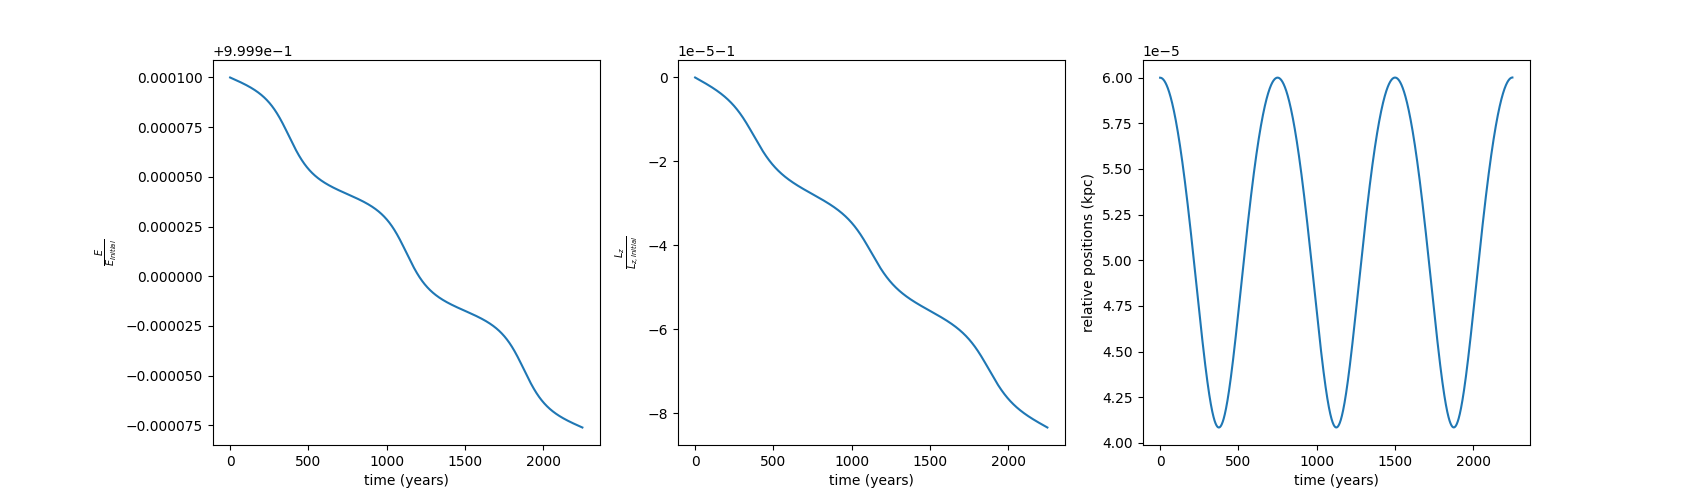
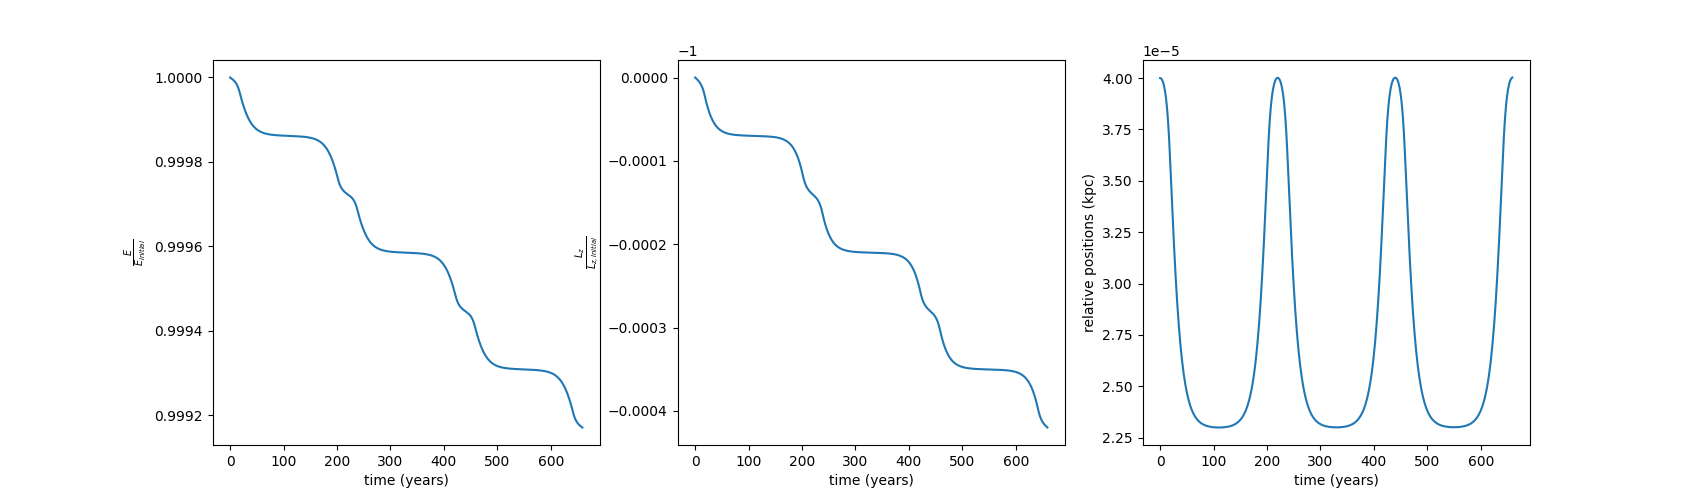
COM correction to be perfectly constant

diff --git a/bound_binary.py b/bound_binary.py
@@ -1,181 +1,184 @@
 # Description: This script calculates the total energy, angular momentum, and period of a binary star system.
 # It is used to verify that the total energy and angular momentum are conserved over time.
 # The script also calculates the period of the binary star system.
-#Writers: Lauren, Hui, Aryana, Negin
+# Writers: Lauren, Hui, Aryana, Negin
+
 import numpy as np
 import matplotlib.pyplot as plt
-from constants import G as const_G
-# from constants import c as const_c
-from plot_3D import visualization
+from constants import G as const_G  # Gravitational constant
+from plot_3D import visualization   # Importing 3D plotting function for visualization
 
-# m = np.array([1e6,1e6])
-# r = np.array([[0,0,0],[1e-5,0,0]])
-# v = np.array([[0,0,0],[0,1e-6,0]])
-
-def choose_initial_condition(number_perticles=2):
+# Function to choose initial conditions for the binary system
+def choose_initial_condition(number_particles=2):
     masses = []
-    for i in range(number_perticles): masses.append(np.random.randint(1,9) * 1e6)
-    masses       = np.sort(np.array(masses))[::-1]
+    # Assign random masses to particles
+    for i in range(number_particles): 
+        masses.append(np.random.randint(1, 9) * 1e6)
+    masses = np.sort(np.array(masses))[::-1]  # Sort masses in descending order
     print('Masses = ', masses)
-    distance     = np.random.randint(1,9)   * 1e-5
-    e            = np.random.randint(10,40) * 0.01
+
+    # Set initial separation and eccentricity
+    distance = np.random.randint(1, 9) * 1e-5
+    e = np.random.randint(10, 40) * 0.01
     print('e = ', e)
-    v_rel        = np.sqrt(const_G*np.sum(masses)*(1-e)/distance)
-    print('v/m_tot = ', v_rel/np.sum(masses))
-    mu           = np.prod(masses) / np.sum(masses)
-    total_energy = 0.5*mu*v_rel**2 - const_G*np.prod(masses)/distance
+
+    # Calculate relative velocity based on masses and distance
+    v_rel = np.sqrt(const_G * np.sum(masses) * (1 - e) / distance)
+    print('v/m_tot = ', v_rel / np.sum(masses))
+
+    # Calculate reduced mass and total energy
+    mu = np.prod(masses) / np.sum(masses)
+    total_energy = 0.5 * mu * v_rel ** 2 - const_G * np.prod(masses) / distance
     print('E = ', total_energy)
-    a            = -0.5 * const_G * np.prod(masses) / total_energy
+
+    # Semi-major axis and orbital period calculation
+    a = -0.5 * const_G * np.prod(masses) / total_energy
     print('a = ', a)
-    period       = np.sqrt((4*np.pi**2*a**3)/(const_G*np.sum(masses)))
+    period = np.sqrt((4 * np.pi ** 2 * a ** 3) / (const_G * np.sum(masses)))
     print('T = ', period)
-    velocities   = np.array([[0,-masses[0]/np.sum(masses)*v_rel,0],[0,masses[1]/np.sum(masses)*v_rel,0]])
-    positions    = np.array([[masses[0]/np.sum(masses)*distance,0,0],[-masses[1]/np.sum(masses)*distance,0,0]])
-    angular_mom  = mu * distance * v_rel
-    # print('eccentricity: ', np.sqrt(1 + 2*total_energy*angular_mom**2 / const_G**2*mu**2))
+
+    # Set initial positions and velocities
+    velocities = np.array([[0, -masses[0] / np.sum(masses) * v_rel, 0],
+                           [0, masses[1] / np.sum(masses) * v_rel, 0]])
+    positions = np.array([[masses[0] / np.sum(masses) * distance, 0, 0],
+                          [-masses[1] / np.sum(masses) * distance, 0, 0]])
+
+    angular_mom = mu * distance * v_rel  # Calculate angular momentum
     return masses, positions, velocities, total_energy, angular_mom
-    
 
-
+# Initialize system parameters
 m, r, v, E0, L0 = choose_initial_condition()
 
-def center_of_mass(masses, positions,velocities):
-    """
-        masses is a Nx1 array storing the masses of N particles
-        positions is a Nx3 array storing the positions of N particles
-        velocities is a Nx3 array storing the velocities of N particles
-        returns the 3D coordination of center of mass and the velocity of the center of mass
-
-     """
-    cm = np.dot(masses,positions)/np.sum(masses) #calculating the center of mass
-    v_cm = np.dot(masses,velocities)/np.sum(masses) #calculating the velocity of the center of mass
+# Function to calculate center of mass (position and velocity)
+def center_of_mass(masses, positions, velocities):
+    cm = np.dot(masses, positions) / np.sum(masses)      # Calculate COM position
+    v_cm = np.dot(masses, velocities) / np.sum(masses)   # Calculate COM velocity
     return cm, v_cm
 
+# Function to calculate reduced mass of the system
 def reduced_mass(masses): 
-    """
-        masses is a Nx1 array storing the masses of N particles
-        returns the reduced mass of the system
-        This will be used to calculate the total energy in the coordinates of the center of mass coordinates
-    """
-    mu = np.prod(masses)/np.sum(masses)
+    mu = np.prod(masses) / np.sum(masses)  # Reduced mass formula
     return mu
 
-
+# Function to calculate total energy of the system
 def total_energy(masses, positions, velocities):
-    """
-        masses is a Nx1 array storing the masses of N particles
-        positions is a Nx3 array storing the positions of N particles
-        velocities is a Nx3 array storing the velocities of N particles
-        returns the total energy of the system, and the relative distance between the two particles
-    """
-    del_pos = np.array(positions[0]-positions[1])          # Calculate relative position
-    rr = np.linalg.norm(del_pos)                           # Calculate the distance from the particle
-    del_vel = np.array(velocities[0]-velocities[1])        # Calculate the magnitude of velocity for each particle
-    vv = np.linalg.norm(del_vel)**2
+    del_pos = np.array(positions[0] - positions[1])     # Relative position vector
+    rr = np.linalg.norm(del_pos)                        # Distance between particles
+    del_vel = np.array(velocities[0] - velocities[1])   # Relative velocity vector
+    vv = np.linalg.norm(del_vel) ** 2
 
+    U = -const_G * masses[0] * masses[1] / rr           # Potential energy
+    K = 0.5 * reduced_mass(masses) * vv                 # Kinetic energy
+    E = K + U                                           # Total energy
+    return E, rr
 
-    U = -const_G*masses[0]*masses[1]/rr      # Calculate potential energy
-    K = 0.5*reduced_mass(masses)*vv          # Calculate kinetic energy
-    E = K + U                                # Sum total energy
-    return E,rr
+print("The total Energy of the system is:", total_energy(m, r, v)[0], "M_sun*kpc^2/year^2")
 
-print("The total Energy of the system is:", total_energy(m,r,v)[0], "M_sun*kpc^2/year^2")
-
-
-def angular_momentum(masses,positions,velocities):
-    """
-        masses is a Nx1 array storing the masses of N particles
-        positions is a Nx3 array storing the positions of N particles
-        velocities is a Nx3 array storing the velocities of N particles
-        returns the angular momentum of the system with respect to the center of mass
-    """
-    r_cross_v = np.cross(positions[0]-positions[1], velocities[0]-velocities[1])  
-    L_arr = reduced_mass(masses)*r_cross_v
-    # L = np.sqrt(np.sum(L_arr**2))
+# Function to calculate angular momentum of the system
+def angular_momentum(masses, positions, velocities):
+    r_cross_v = np.cross(positions[0] - positions[1], velocities[0] - velocities[1])
+    L_arr = reduced_mass(masses) * r_cross_v  # Calculate angular momentum vector
     return L_arr
 
-def calculate_period(masses,positions,velocities):
-     """
-        masses is a Nx1 array storing the masses of N particles
-        positions is a Nx3 array storing the positions of N particles
-        velocities is a Nx3 array storing the velocities of N particles
-        returns the period of the binary star system, and the semi-major and semi-minor axis of the binary star system
-     """
-     tot_E,rr=total_energy(masses,positions,velocities)      # calculate the total energy of the system
-     a = -1/2 * const_G * masses[0] * masses[1] / tot_E      # define a semi-major axis
-     T = np.sqrt(4*np.pi**2 * a**3 / (const_G * np.sum(masses))) #calculate the period
-     tot_L=np.linalg.norm(angular_momentum(m,r,v))           # calculate the angular momentum
-     elli=np.sqrt(1+2*tot_E*tot_L**2/(reduced_mass(m)*(const_G*m[0]*m[1])**2))
+# Function to calculate the period, semi-major axis, and semi-minor axis
+def calculate_period(masses, positions, velocities):
+     tot_E, rr = total_energy(masses, positions, velocities)       # Calculate total energy
+     a = -0.5 * const_G * masses[0] * masses[1] / tot_E            # Semi-major axis
+     T = np.sqrt(4 * np.pi ** 2 * a ** 3 / (const_G * np.sum(masses)))  # Orbital period
+     tot_L = np.linalg.norm(angular_momentum(m, r, v))             # Angular momentum magnitude
+     elli = np.sqrt(1 + 2 * tot_E * tot_L ** 2 / (reduced_mass(m) * (const_G * m[0] * m[1]) ** 2))
 
-     return T, a*(1+elli), a*(1-elli)                             # return the period, semi-major and semi-minor axis
+     return T, a * (1 + elli), a * (1 - elli)                      # Return period and axes
 
-T = calculate_period(m,r,v)
-print("The priode of the system is period:",T[0], "years")
-print("The maximum distance is:",T[1], "kpc")
-print("The minimum distance is:",T[2], "kpc")
+# Calculate and print system period and distances
+T = calculate_period(m, r, v)
+print("The period of the system is:", T[0], "years")
+print("The maximum distance is:", T[1], "kpc")
+print("The minimum distance is:", T[2], "kpc")
 
-
+# Import necessary functions for time evolution and force calculation
 from sc_time_evolution import evolve_position, evolve_velocity, set_t
 from Force_Nbody import cal_gforce
-# from sc_time_evolution import dt, T, step
 
+# Initialize lists for energy, angular momentum, and position tracking
 energy_list = []
 angular_momentum_list = []
 relative_positions = []
 
+# Set initial values for mass, position, and velocity
 mass = m
 position = r
 velocity = v
+position_matrix_binary = np.empty((2, 1, 3))  # Matrix to store position data for visualization
 
-position_matrix_binary = np.empty((2, 1, 3))
-
-#Evolution of binary system
+# Simulation parameters
 total_time = 0
-period_num = 3
-s = 0
-# dt = 1e-3
-while(1):
-    if s%1000==0:
-        energy, distance = total_energy(mass,position,velocity)
-        energy_list += [energy]
-        relative_positions += [distance]
-        ang_mom = angular_momentum(mass,position,velocity)
-        angular_momentum_list += [ang_mom]
-        position_matrix_binary = np.append(position_matrix_binary,position[:, np.newaxis, :],axis=1)
-    # Store current velocity, acceleration, and position for each particle at time step s
-    acceleration = cal_gforce(position, m)                        # Calculate acceleration
-    dt = set_t(v, acceleration, coeff=1e-4)
+period_num = 3               # Number of periods to simulate
+s = 0                        # Step count
+correction_frequency = 1000  # Frequency for resetting center of mass
+tracking_frequency = 1000    # Frequency for calculating the parameters
 
-    # Evolve velocity and position using the current state
-    velocity_temp = evolve_velocity(velocity, acceleration, dt/2) # Update velocity 1
-    position = evolve_position(position, velocity, dt)            # Update position based on the current velocity
-    acceleration = cal_gforce(position, m)
-    velocity = evolve_velocity(velocity_temp, acceleration, dt/2) # Update velocity
+# Main evolution loop
+while True:
+    # Every correction_frequency steps, reset the COM to prevent drift
+    if s % correction_frequency == 0:
+        cm_position, cm_velocity = center_of_mass(mass, position, velocity)
+        position -= cm_position  # Recenter positions around COM
+        # velocity -= cm_velocity  # Set COM velocity to zero
+
+    # Track and store energy, angular momentum, and relative position data every tracking_frequency steps
+    if s % tracking_frequency == 0:
+        energy, distance = total_energy(mass, position, velocity)
+        energy_list.append(energy)
+        relative_positions.append(distance)
+        ang_mom = angular_momentum(mass, position, velocity)
+        angular_momentum_list.append(ang_mom)
+        position_matrix_binary = np.append(position_matrix_binary, position[:, np.newaxis, :], axis=1)
+
+    # Calculate forces and update system
+    acceleration = cal_gforce(position, m)                    # Calculate gravitational force
+    dt = set_t(velocity, acceleration, coeff=1e-4)            # Calculate time step
+
+    # Update velocity and position using half-step method
+    velocity_temp = evolve_velocity(velocity, acceleration, dt / 2)  # Half-step velocity
+    position = evolve_position(position, velocity, dt)               # Update position
+    acceleration = cal_gforce(position, m)                           # Recalculate force
+    velocity = evolve_velocity(velocity_temp, acceleration, dt / 2)  # Finalize velocity
+
+    # Update total time and step count
     total_time += dt
     s += 1
+
+    # End simulation if total time exceeds the set number of periods
     if total_time > period_num * T[0]:
         break
 
-visualization(position=position_matrix_binary, lim_bound=(-T[1],T[1]))
+# Visualization of position evolution
+visualization(position=position_matrix_binary, lim_bound=(-T[1], T[1]))
 
-fig,axes = plt.subplots(1, 3, figsize=(17,5))
+# Plot and save energy and angular momentum data over time
+fig, axes = plt.subplots(1, 3, figsize=(17, 5))
 time = np.array([i for i in range(len(energy_list))])
 
+# Plot normalized energy
 ax = axes[0]
-ax.plot(time,energy_list/E0)
+ax.plot(time, energy_list / E0)
 ax.set_xlabel("time (years)")
 ax.set_ylabel(r"$\frac{E}{E_{Initial}}$")
 
+# Plot normalized angular momentum
 angular_momentum_list = np.array(angular_momentum_list)
 ax = axes[1]
-ax.plot(time,angular_momentum_list[:,2]/L0)
+ax.plot(time, angular_momentum_list[:, 2] / L0)
 ax.set_xlabel("time (years)")
 ax.set_ylabel(r"$\frac{L_z}{L_{z,Initial}}$")
 
+# Plot relative positions
 ax = axes[2]
-ax.plot(time,relative_positions)
+ax.plot(time, relative_positions)
 ax.set_xlabel("time (years)")
 ax.set_ylabel("relative positions (kpc)")
 
+# Save plot and finish
 plt.savefig("binary_conserved.png")
 print('Done!')
